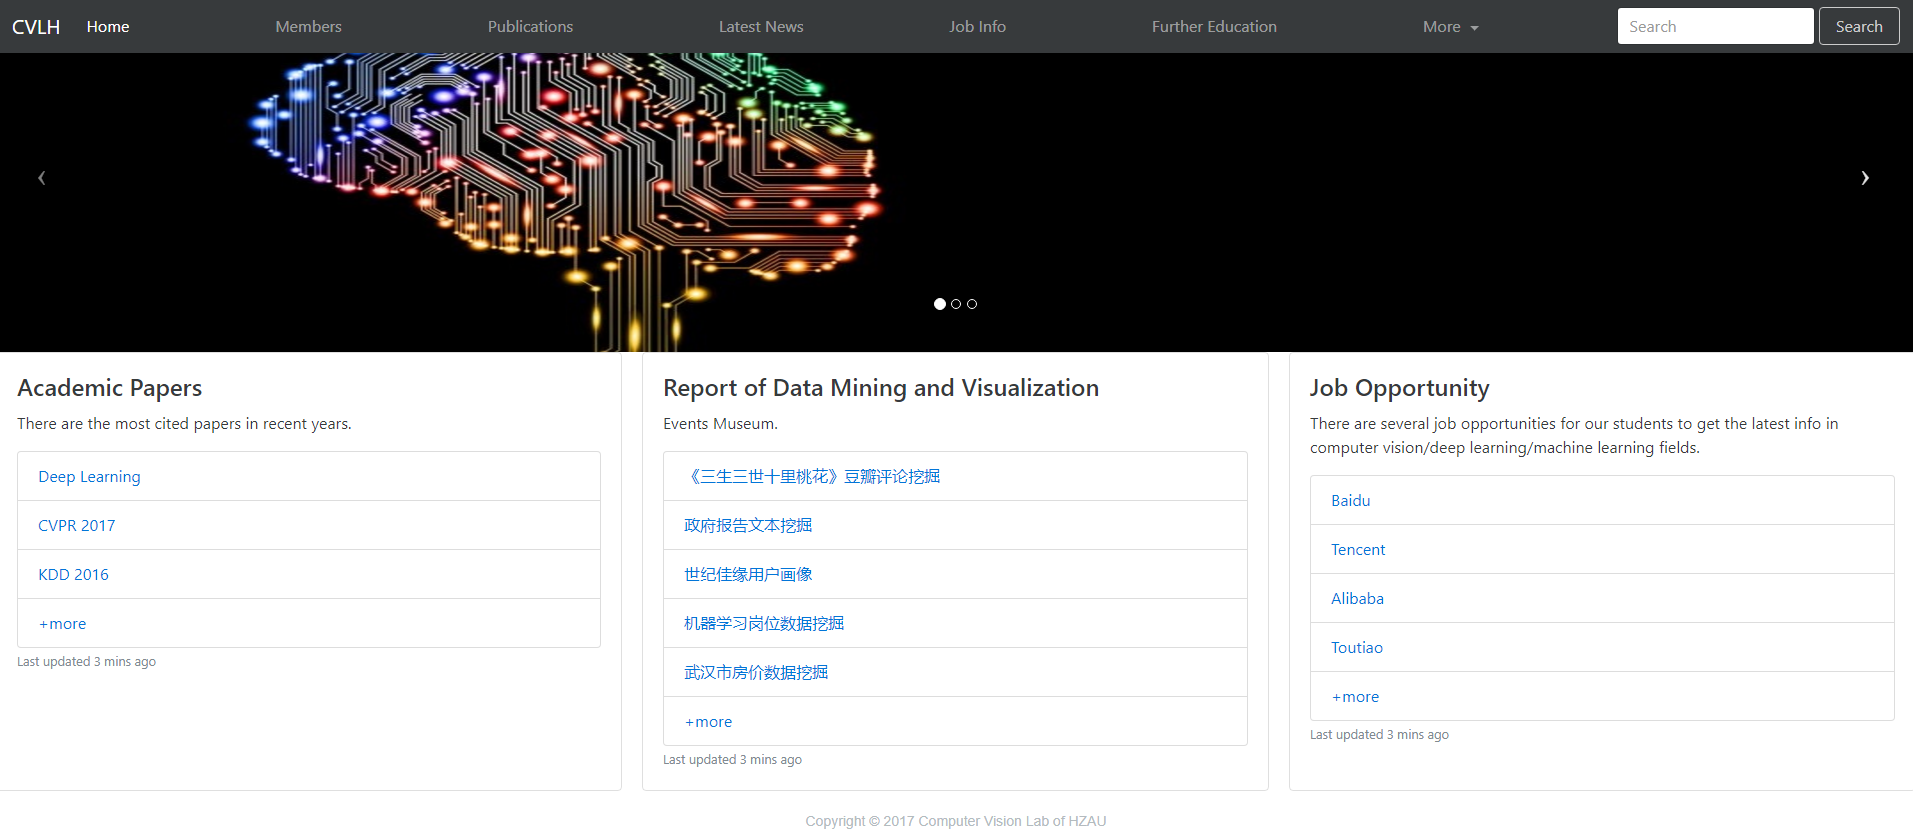
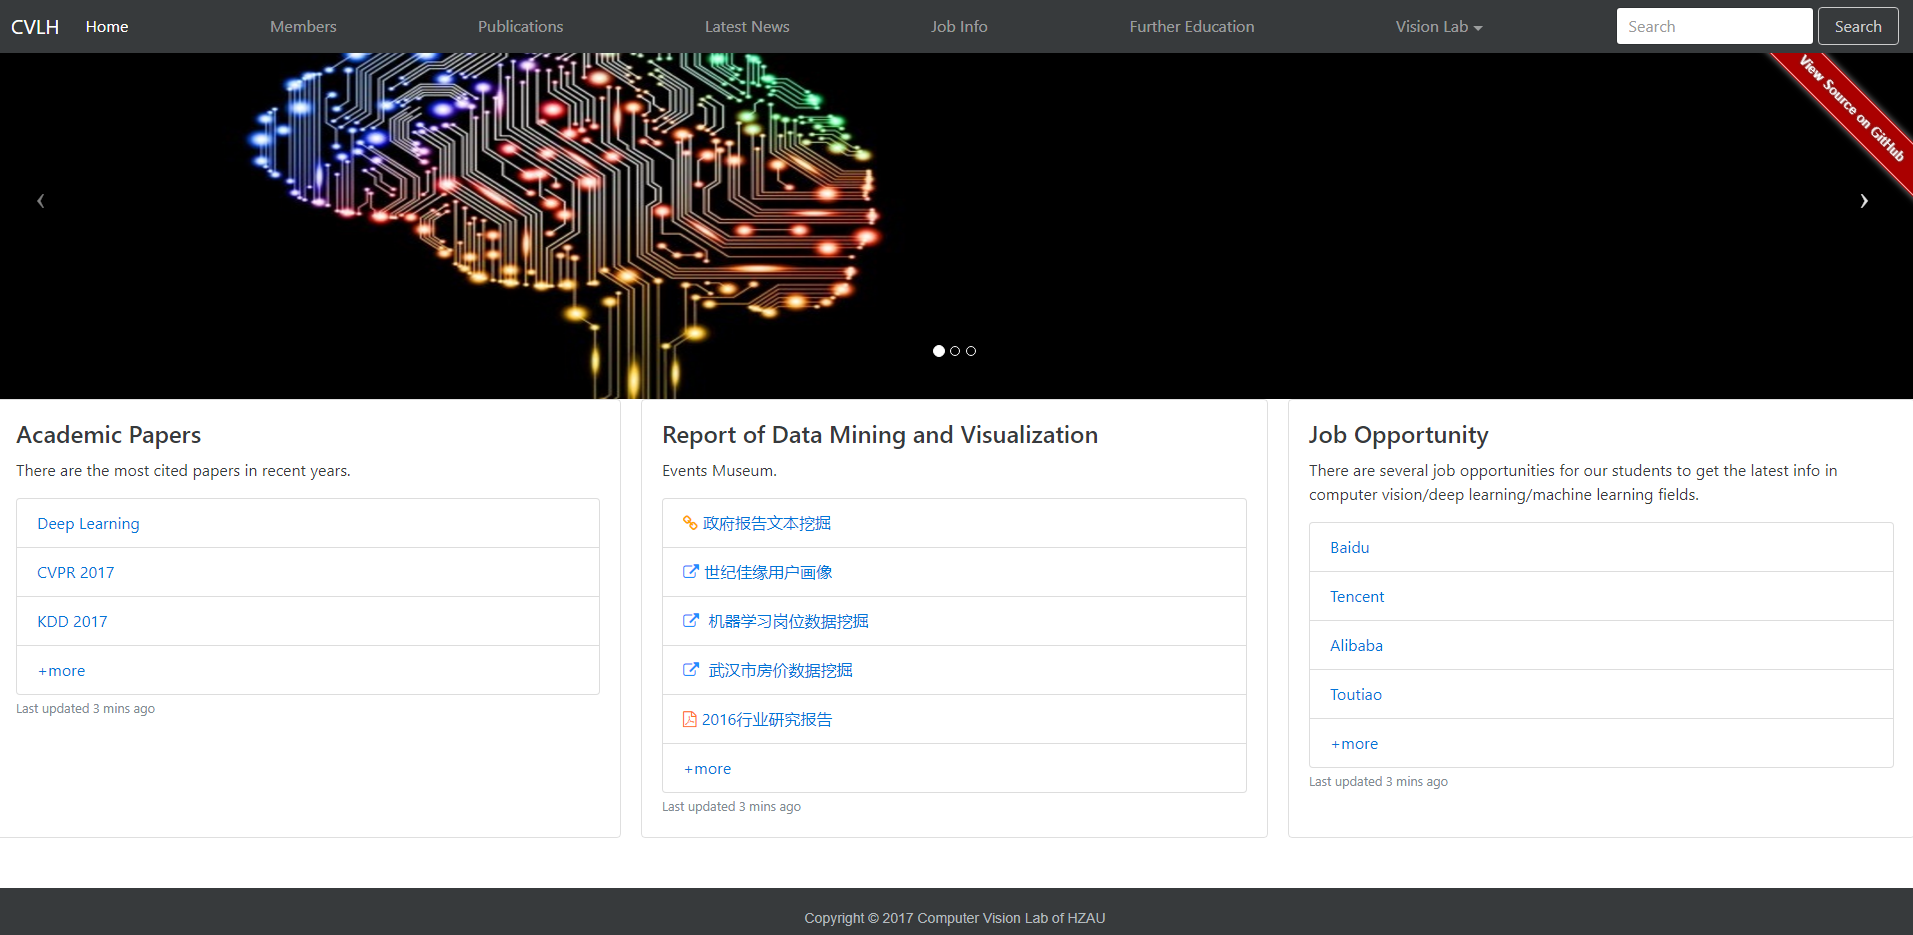
-- V0.2.8_ALPHA: 1. fix wordcloud bug

Changed region(s): [[0.0, 0.0, 1.0, 0.8719], [0.0, 0.903, 1.0, 1.0], [0.6785, 0.8719, 0.7402, 0.903]]

diff --git a/web/static/html/gov-report.html b/web/static/html/gov-report.html
@@ -26,6 +26,7 @@
         <div class="form-group">
             <label for="chairman">Select a chairman</label>
             <select class="form-control" id="chairman">
+                <option label="Choose" value="">Choose</option>
                 <option label="毛泽东" value="毛泽东">毛泽东</option>
                 <option label="邓小平" value="邓小平">邓小平</option>
                 <option label="江泽民" value="江泽民">江泽民</option>
@@ -43,7 +44,6 @@
             var urlPrefix = "/api/hzau/gov";
             var myChart = echarts.init(document.getElementById('keywords'));
 
-            var keywordsObj = new Object();
             var wordcloud = [];
             $.ajax({
                 url: urlPrefix,
@@ -53,55 +53,53 @@
             }).done(function (data) {
                 for (var i = 0; i < data.data.length; i++) {
                     var item = data.data[i];
-                    keywordsObj[item.keyword] = item.frequency;
+                    var keywordsObj = new Object();
+                    keywordsObj['name'] = item.keyword;
+                    keywordsObj['value'] = item.frequency;
+                    wordcloud.push(keywordsObj);
                 }
                 layer.close(index);
-                var keywords = JSON.stringify(keywordsObj);
 
-                for (var name in keywords) {
-                    wordcloud.push({
-                        name: name,
-                        value: Math.sqrt(keywords[name])
-                    })
-                }
-            });
 
-            var maskImage = new Image();
-            var option = {
-                series: [{
-                    type: 'wordCloud',
-                    sizeRange: [10, 100],
-                    rotationRange: [-90, 90],
-                    rotationStep: 45,
-                    gridSize: 2,
-                    shape: 'pentagon',
-                    maskImage: maskImage,
-                    textStyle: {
-                        normal: {
-                            color: function () {
-                                return 'rgb(' + [
-                                    Math.round(Math.random() * 160),
-                                    Math.round(Math.random() * 160),
-                                    Math.round(Math.random() * 160)
-                                ].join(',') + ')';
+                var option = {
+                    tooltip: {},
+                    series: [{
+                        type: 'wordCloud',
+                        gridSize: 2,
+                        sizeRange: [12, 50],
+                        rotationRange: [-90, 90],
+                        shape: 'pentagon',
+                        width: 900,
+                        height: 600,
+                        textStyle: {
+                            normal: {
+                                color: function () {
+                                    return 'rgb(' + [
+                                        Math.round(Math.random() * 160),
+                                        Math.round(Math.random() * 160),
+                                        Math.round(Math.random() * 160)
+                                    ].join(',') + ')';
+                                }
+                            },
+                            emphasis: {
+                                shadowBlur: 10,
+                                shadowColor: '#333'
                             }
-                        }
-                    },
-                    data: wordcloud.sort(function (a, b) {
-                        return b.value - a.value;
-                    })
-                }]
-            };
-            maskImage.onload = function () {
-                option.series[0].maskImage;
+                        },
+                        data: wordcloud
+                    }]
+                };
                 myChart.setOption(option);
-            }
-            maskImage.src = '/static/logo.png';
+            });
         }
     </script>
     <div id="keywords" style="width: 1024px;height:768px;"></div>
 </div>
 
+<div class="amz-toolbar" id="amz-toolbar" style="right: 10px;">
+    <a title="Back to Top" class="am-icon-btn am-active" id="amz-go-top"><i class="fa fa-arrow-up"></i></a>
+    <a href="index.html" title="Back to Home" class="am-icon-btn am-icon-faq am-icon-question-circle"><i class="fa fa-home"></i></a>
+</div>
 <footer id="footer" class="footer hidden-print">
     Copyright &copy; 2017 Computer Vision Lab of HZAU
 </footer>

diff --git a/web/static/html/tfidf.html b/web/static/html/tfidf.html
@@ -1,0 +1,62 @@
+<!DOCTYPE html>
+<html lang="en">
+<head>
+    <meta charset="UTF-8">
+    <title>Hot Words Analysis</title>
+    <script src="/static/js/jquery-3.1.1.min.js"></script>
+    <script src="/static/js/layer/layer.js"></script>
+    <script src="/static/js/echarts.js"></script>
+    <script src="/static/js/common.js"></script>
+    <link rel="stylesheet" href="/static/bootstrap-4.0.0-alpha.5-dist/css/bootstrap.css">
+    <link rel="stylesheet" href="/static/css/common.css">
+    <link rel="stylesheet" href="/static/css/font-awesome.min.css">
+    <link rel="icon" href="/static/res/favicon.ico">
+    <style>
+        textarea {
+            width: 100%;
+            padding: 15px;
+            display: block;
+            margin: 20px auto;
+        }
+
+        h2 {
+            font-family: Times, serif;
+        }
+    </style>
+</head>
+<body>
+<div class="container">
+    <h2 style="padding-top: 20px;">Hot Words Analysis</h2>
+    <textarea name="text" rows="10"></textarea>
+    <button class="btn btn-primary btn-block" onclick="tfidf()"><i class="fa fa-calculator" aria-hidden="true"></i>TF-IDF</button>
+    <div id="main" style="width:100%;height:600px;">
+
+    </div>
+</div>
+<div class="amz-toolbar" id="amz-toolbar" style="right: 10px;">
+    <a title="Back to Top" class="am-icon-btn am-active" id="amz-go-top"><i class="fa fa-arrow-up"></i></a>
+    <a href="index.html" title="Back to Home" class="am-icon-btn am-icon-faq am-icon-question-circle"><i class="fa fa-home"></i></a>
+</div>
+<script>
+    var myChart = echarts.init(document.getElementById('main'));
+
+    function tfidf() {
+        var val = $("textarea").val();
+        if (val.trim() != "") {
+            var index = layer.load(0, {shade: [0.3, "rgba(0,0,0,0.5)"]});
+            $.ajax({
+                url: "/api/hzau/tfidf",    //请求的url地址
+                dataType: "json",   //返回格式为json
+                data: {"text": $("textarea").val()},    //参数值
+                type: "POST"   //请求方式
+            }).done(function () {
+                layer.close(index);
+            });
+        } else {
+            layer.msg("Invalid input text", {icon: 2, shift: 6})
+        }
+    }
+</script>
+<footer>Copyright &copy; 2016 Computer Vision Lab of HZAU</footer>
+</body>
+</html>

diff --git a/web/static/css/common.css b/web/static/css/common.css
@@ -25,25 +25,29 @@ footer {
     margin-right: 5px;
 }
 
-h2 {
+/*h2 {
     text-align: center
-}
+}*/
 .amz-toolbar {
     position: fixed;
     right: 10px;
     bottom: 70px;
     z-index: 999;
 }
+
 .amz-toolbar a.am-active {
     display: block;
 }
+
 .amz-toolbar a {
     display: none;
     opacity: .7;
 }
+
 .amz-toolbar a:hover {
     opacity: 1
 }
+
 .am-icon-btn {
     -webkit-box-sizing: border-box;
     box-sizing: border-box;
@@ -57,32 +61,42 @@ h2 {
     color: #555;
     text-align: center;
 }
+
 [class*=am-icon-] {
     display: inline-block;
     font-style: normal;
 }
+
 [class*=am-icon-]:before {
     display: inline-block;
-    font: normal normal normal 1.6rem/1 FontAwesome,sans-serif;
+    font: normal normal normal 1.6rem/1 FontAwesome, sans-serif;
     font-size: inherit;
     text-rendering: auto;
     -webkit-font-smoothing: antialiased;
     -moz-osx-font-smoothing: grayscale;
-    -webkit-transform: translate(0,0);
-    -ms-transform: translate(0,0);
-    transform: translate(0,0);
+    -webkit-transform: translate(0, 0);
+    -ms-transform: translate(0, 0);
+    transform: translate(0, 0);
 }
+
 *, :after, :before {
     -webkit-box-sizing: border-box;
     box-sizing: border-box;
 }
+
 .amz-toolbar .am-icon-faq {
     display: block;
     opacity: 1;
     background-color: #dd514c;
     margin-top: 10px;
 }
-.amz-toolbar .am-icon-faq i{color: #fff;-webkit-transition: all .3s ease-in;transition: all .3s ease-in;}
+
+.amz-toolbar .am-icon-faq i {
+    color: #fff;
+    -webkit-transition: all .3s ease-in;
+    transition: all .3s ease-in;
+}
+
 .amz-toolbar .am-icon-faq i:hover {
     -webkit-transform: rotate(720deg);
     -ms-transform: rotate(720deg);

diff --git a/web/static/html/tokenizer.html b/web/static/html/tokenizer.html
@@ -29,7 +29,6 @@
     <h2 style="padding-top: 20px;">Hot Words Analysis</h2>
     <textarea name="text" rows="10"></textarea>
     <button class="btn btn-primary btn-block" onclick="tokenize()"><i class="fa fa-cogs" aria-hidden="true"></i>tokenize</button>
-    <button class="btn btn-primary btn-block" onclick="tfidf()"><i class="fa fa-calculator" aria-hidden="true"></i>TF-IDF</button>
     <div id="main" style="width:100%;height:600px;">
 
     </div>
@@ -47,23 +46,6 @@
             var index = layer.load(0, {shade: [0.3, "rgba(0,0,0,0.5)"]});
             $.ajax({
                 url: "/api/hzau/tokenize",    //请求的url地址
-                dataType: "json",   //返回格式为json
-                data: {"text": $("textarea").val()},    //参数值
-                type: "POST"   //请求方式
-            }).done(function () {
-                layer.close(index);
-            });
-        } else {
-            layer.msg("Invalid input text", {icon: 2, shift: 6})
-        }
-    }
-
-    function tfidf() {
-        var val = $("textarea").val();
-        if (val.trim() != "") {
-            var index = layer.load(0, {shade: [0.3, "rgba(0,0,0,0.5)"]});
-            $.ajax({
-                url: "/api/hzau/tfidf",    //请求的url地址
                 dataType: "json",   //返回格式为json
                 data: {"text": $("textarea").val()},    //参数值
                 type: "POST"   //请求方式

diff --git a/web/static/html/img-classify.html b/web/static/html/img-classify.html
@@ -8,6 +8,7 @@
     <link rel="stylesheet" href="/static/css/bootstrapValidator.css">
     <link rel="stylesheet" href="/static/css/common.css">
     <link rel="stylesheet" href="/static/css/font-awesome.min.css">
+    <link rel="stylesheet" href="/static/js/layer/mobile/need/layer.css">
     <script src="/static/js/jquery-3.1.1.min.js"></script>
     <script src="/static/bootstrap-4.0.0-alpha.5-dist/js/bootstrapv3.min.js"></script>
     <script src="/static/js/bootstrapValidator.js" type="text/javascript"></script>
@@ -18,6 +19,7 @@
 <script type="text/javascript">
     $(document).ready(
         function () {
+            var index = layer.load(0, {shade: false});
             String.prototype.evalJSON = function () {
                 return eval('(' + this + ')');
             }
@@ -54,11 +56,12 @@
                     }
                 }
             );
-
+            layer.close(index);
         }
     );
 
     function classifyUrl() {
+        var index = layer.load(0, {shade: false});
         if (!$('#urlsubmit').bootstrapValidator('validate')) {
             return false;
         }
@@ -84,6 +87,7 @@
                 }
             })
         }
+        layer.close(index);
     }
 
     function gethtmlbyObj(obj) {

diff --git a/web/static/html/index.html b/web/static/html/index.html
@@ -48,7 +48,8 @@
                     <a class="dropdown-item" href="/static/html/label-face.html">Face Beautification Predict</a>
                     <a class="dropdown-item" href="/static/html/face-compare.html">Face Compare</a>
                     <a class="dropdown-item" href="/static/html/sentiment.html">Sentiment Analysis</a>
-                    <a class="dropdown-item" href="/static/html/hotwords.html">Hot Words Analysis</a>
+                    <a class="dropdown-item" href="/static/html/tokenizer.html">Tokenizer</a>
+                    <a class="dropdown-item" href="/static/html/tfidf.html">TF-IDF Vectorize</a>
                     <!--<a class="dropdown-item" href="/static/html/douban.html">Data Mining</a>-->
                 </div>
             </li>

diff --git a/web/static/css/index.css b/web/static/css/index.css
@@ -1,6 +1,6 @@
 img {
     min-width: 100%;
-    max-height: 353px;
+    max-height: 400px;
     background-color: black;
 }
 

diff --git a/src/main/java/com/cvlh/controller/NlpController.java b/src/main/java/com/cvlh/controller/NlpController.java
@@ -56,4 +56,16 @@ public class NlpController extends BaseController {
 
         return renderSuccess(hashMap, httpServletResponse);
     }
+
+    @RequestMapping(value = "/hzau/word/sim", method = RequestMethod.POST)
+    @ResponseBody
+    public Object calcWordsSimilarity(HttpServletResponse httpServletResponse, HttpServletRequest httpServletRequest, String word1, String word2) throws IOException {
+        Map<String, Object> hashMap = new HashMap<>();
+        long startTime = System.currentTimeMillis();
+        hashMap.put("similarity", NlpUtil.calcWordsSimilarity(word1, word2));
+        long endTime = System.currentTimeMillis();
+        hashMap.put("time", endTime - startTime);
+
+        return hashMap;
+    }
 }

diff --git a/src/main/java/com/cvlh/controller/JobController.java b/src/main/java/com/cvlh/controller/JobController.java
@@ -53,6 +53,7 @@ public class JobController extends BaseController {
     @ResponseBody
     public Object deleteNlpJobs(HttpServletResponse httpServletResponse, Long id) throws IOException {
         nlpJobService.deleteByPrimaryKey(id);
+
         return renderSuccess("Delete successfully!", httpServletResponse);
     }
 }

diff --git a/README.md b/README.md
@@ -7,7 +7,9 @@
    
    ![1](Intro/1.png)
    ![2](Intro/2.png)
-   ![3](Intro/3.jpg)
+   ![3](Intro/3.png)
+   ![4](Intro/4.png)
+   ![5](Intro/5.png)
      
 ## Prerequisite
     
